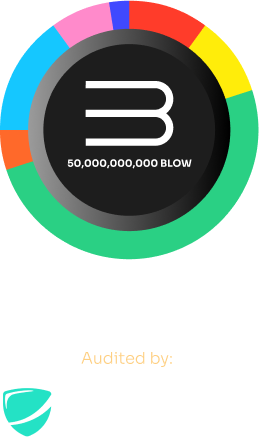
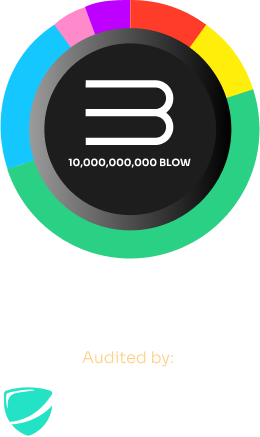
tokenomics-changes

diff --git a/components/Tokenomics.tsx b/components/Tokenomics.tsx
@@ -9,14 +9,67 @@ import TokenPlacholder from '../assets/mtokenomics.png'
 import TokenomicsCard, { TokenomicsCardProps } from './utils/TokenomicsCard'
 const Tokenomics: FC = () => {
 
-    const tokenomics: { percent: number; text: string; color: string }[] = [
-        { percent: 10, text: 'Team and Advisors', color: '#FFED0A'  },
-        { percent: 50, text: 'Ecosystem/Development', color: '#2AD084'  },
-        { percent: 5, text: 'Private Sale', color: '#FF8ACB'  },
-        { percent: 2.5, text: 'Airdrops', color: '#000CDF'  },
-        { percent: 10, text: 'Marketing', color: '#FF3C2A'  },
-        { percent: 5, text: 'Public Sale', color: '#15C7FF'  },
-        { percent: 7.5, text: 'TGE', color: '#FF692A'  }
+    const tokenomics: { content: string[]; subtext: string; percent: number; text: string; color: string }[] = [
+        { 
+            percent: 10, 
+            text: 'Team and Advisors', 
+            color: '#FFED0A',
+            subtext: "Tokens 1,000,000,000 BLOW",
+            content: [
+                "• 0% TGE",
+                "• 6 months Cliff - 1.67% monthly after" 
+            ]
+    },
+        { 
+            percent: 50, 
+            text: 'Ecosystem/Development', 
+            color: '#2AD084', 
+            subtext: "Tokens 5,000,000,000 BLOW", 
+            content: [
+                "• TGE 0%",
+                "• 6 months Cliff - 0.8% monthly after " 
+            ]
+    },
+        { 
+            percent: 5, 
+            text: 'Private Sale', 
+            color: '#FF8ACB',
+            subtext: "Tokens 500,000,000 BLOW", 
+            content: [
+                "• TGE 15%",
+                "• 2 months Cliff - 7.08% monthly after " 
+            ]  
+    },
+        { 
+            percent: 5, 
+            text: 'Airdrops', 
+            color: '#BD00FF',
+            subtext: "Tokens 500,000,000 BLOW", 
+            content: [
+                "• 0% TGE",
+                "• Released quarterly" 
+            ]  
+    },
+        { 
+            percent: 10, 
+            text: 'Marketing', 
+            color: '#FF3C2A',
+            subtext: "Tokens 1,000,000,000 BLOW", 
+            content: [
+                "• TGE 0%",
+                "• 3 months Cliff - 2.08% monthly "
+            ]  
+    },
+        { 
+            percent: 5, 
+            text: 'Public Sale', 
+            color: '#15C7FF',
+            subtext: "Tokens 500,000,000 BLOW", 
+            content: [
+                "• 100% TGE",
+                "• Not Vested" 
+            ]   
+    }
     ]
 
    
@@ -38,15 +91,21 @@ const Tokenomics: FC = () => {
             <div className='flex-1 my-10 flex justify-center'><Image  alt='placeholder' className='' src={TokenPlacholder}/></div>
             <div className="flex-1 flex py-10 lg:py-0 flex-col border-b-[#242424] border-t-[#242424] lg:border-r-[#242424]  lg:border-l-[#242424] border-t border-b lg:border-l lg:border-r justify-center gap-4 lg:gap-8">
                {
-                tokenomics.slice(0, 4).map((item, i:number) => (
+                tokenomics.slice(0, 3).map((item, i:number) => (
                     <div className='flex ml-5 lg:ml-10 items-center gap-4' key={i} style={{ color: item.color }}>
                        <div className='relative'>
-                       <CircularProgress className=' text-[#363B41] absolute left-0 top-0' size={40} variant='determinate' color='inherit' value={100}/>
-                       <CircularProgress className='z-50' size={40} variant='determinate' color='inherit' value={item.percent}/>
+                       <CircularProgress className=' text-[#363B41] absolute left-0 top-0' size={64} variant='determinate' color='inherit' value={100}/>
+                       <CircularProgress className='z-50' size={64} variant='determinate' color='inherit' value={item.percent}/>
                        </div>
-                       <div>
-                        <div className='text-[20px]'>{item.percent}%</div>
+                       <div className='text-[14px]'>
+                        <div className='text-[20px] font-bold'>{item.percent}%</div>
                         <div>{item.text}</div>
+                        <div>{item.subtext}</div>
+                        {
+                            item.content.map((item, i: number) => (
+                                <div key={i}>{item}</div>
+                            ))
+                        }
                        </div>
                     </div>
                 )) 
@@ -54,15 +113,21 @@ const Tokenomics: FC = () => {
             </div>
             <div className="flex-1 pt-10 lg:pt-0 flex flex-col justify-center gap-4 lg:gap-8">
             {
-                tokenomics.slice(4, 7).map((item, i:number) => (
+                tokenomics.slice(3, 6).map((item, i:number) => (
                     <div className='flex ml-5 lg:ml-10 items-center gap-4' key={i} style={{ color: item.color }}>
                         <div className='relative'>
-                       <CircularProgress className=' text-[#363B41] absolute left-0 top-0' size={40} variant='determinate' color='inherit' value={100}/>
-                       <CircularProgress className='z-50' size={40} variant='determinate' color='inherit' value={item.percent}/>
+                       <CircularProgress className=' text-[#363B41] absolute left-0 top-0' size={64} variant='determinate' color='inherit' value={100}/>
+                       <CircularProgress className='z-50' size={64} variant='determinate' color='inherit' value={item.percent}/>
                        </div>
-                       <div>
-                        <div className='text-[20px]'>{item.percent}%</div>
+                       <div className='text-[14px]'>
+                        <div className='text-[20px] font-bold'>{item.percent}%</div>
                         <div>{item.text}</div>
+                        <div>{item.subtext}</div>
+                        {
+                            item.content.map((item, i: number) => (
+                                <div key={i}>{item}</div>
+                            ))
+                        }
                        </div>
                     </div>
                 )) 

diff --git a/components/utils/CoinModal.tsx b/components/utils/CoinModal.tsx
@@ -18,9 +18,9 @@ const CoinModal: FC<CoinModalProps> = ({
     open={open}
     onClose={onClose}
     scroll='body'
-    PaperComponent={props => (
-        <Paper {...props} className='md:w-[482px] text-left bg-[#1A1A1A] mx-auto my-16 rounded-[20px] p-8' />
-    )}
+    PaperProps={{
+      className: "md:w-[482px] text-left bg-[#1A1A1A] mx-auto my-16 rounded-[20px] p-8"
+    }}
     >
       <div className="text-center mb-4">
             <Image alt='logo' src={Logo} width={120} height={100} />

diff --git a/components/NavBar.tsx b/components/NavBar.tsx
@@ -46,7 +46,7 @@ const NavBar: FC<NavBarProps> = ({
       <div className='flex items-center gap-1'>
         <Image height={32} alt='logo' className='contain' src={Logo} />
       </div>
-      <div className="hidden lg:flex gap-4">
+      <div className="hidden lg:flex gap-8">
         {
           navigations.map((item: NavlinksProps, index: number )=> item.contained ? 
                 (
